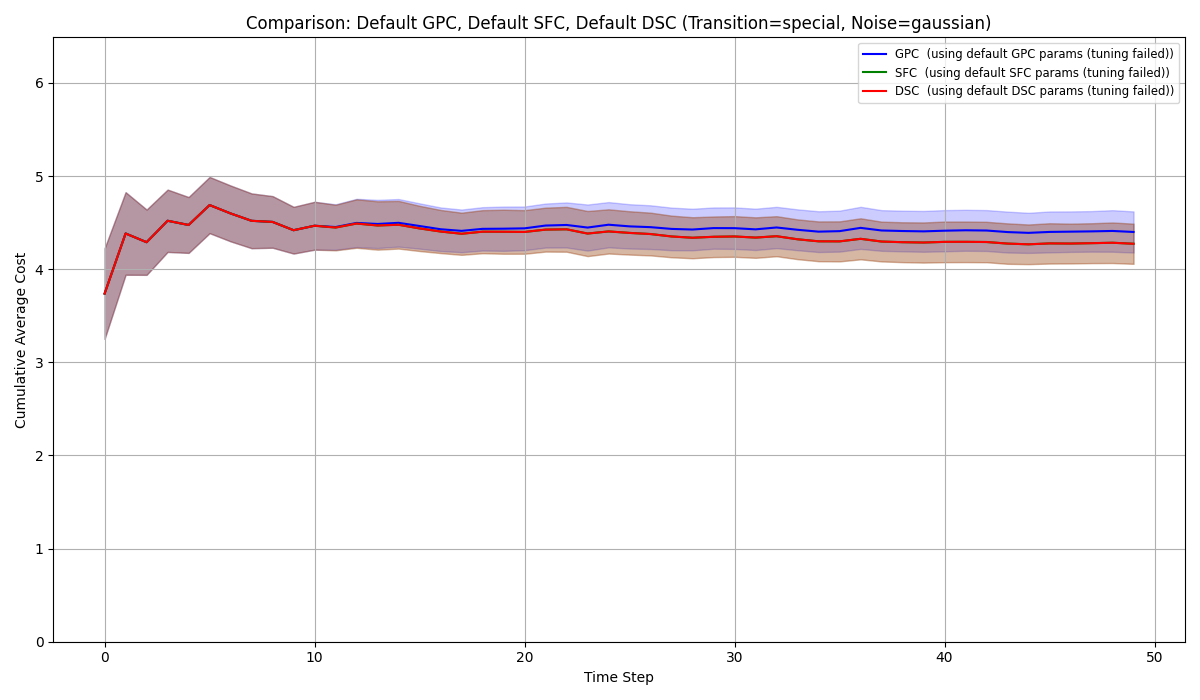
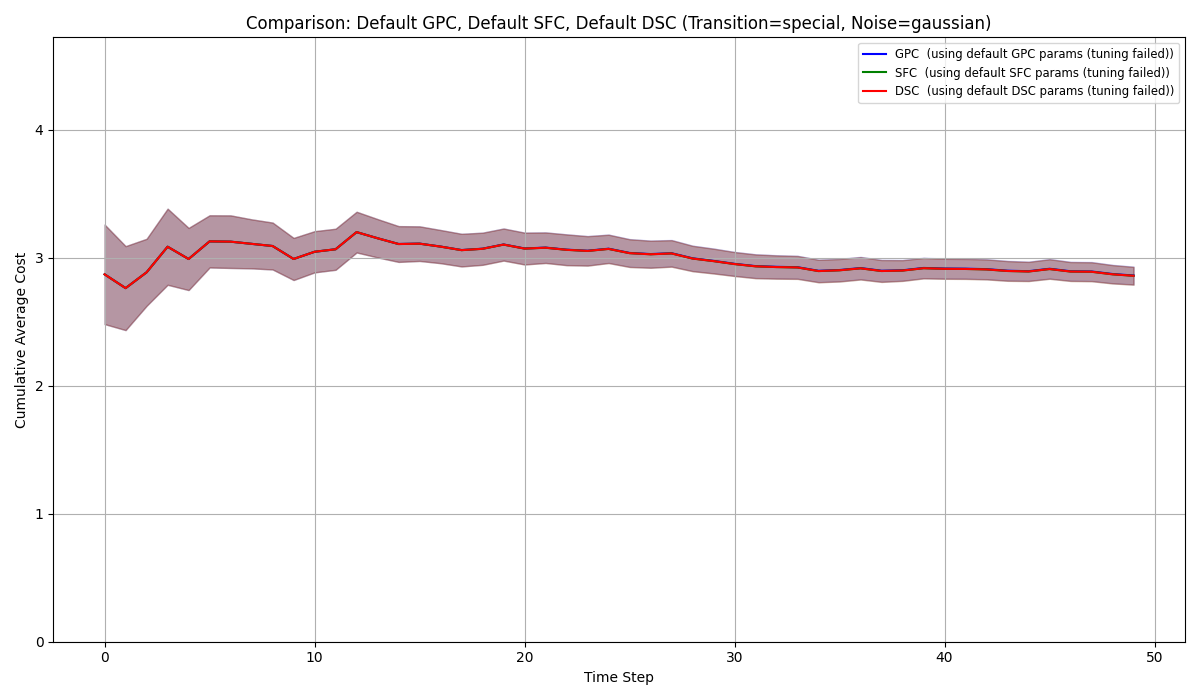
brax envs

Changed region(s): [[0.0925, 0.24, 0.9558, 0.48], [0.0308, 0.36, 0.0617, 0.39]]

diff --git a/deluca/colabs/plots/brax/inverted_pendulum/rollouts/rollout_gpc_brax_trial_0.html b/deluca/colabs/plots/brax/inverted_pendulum/rollouts/rollout_gpc_brax_trial_0.html
@@ -34,7 +34,7 @@
   <script src="https://unpkg.com/pako@2.1.0/dist/pako.min.js"></script>
 
   <script type="application/javascript">
[2 lines of base64/hex data omitted]
   // decode base64 (convert ascii to binary)
   system = atob(system);
   // convert binary string to character-number array

diff --git a/deluca/colabs/control_algs.py b/deluca/colabs/control_algs.py
@@ -59,11 +59,11 @@ T = 50     # Time horizon for simulations
 LR_DECAY = True # Whether to apply learning rate decay
 
 # Controller Structure Parameters
-GPC_M = 10
-SFC_M_HIST = 30
-SFC_H_FILT = 10
-DSC_M_HIST = 30 # Often same as SFC, but kept separate for flexibility
-DSC_H_FILT = 10 # Often same as SFC
+GPC_M = 5
+SFC_M_HIST = 10
+SFC_H_FILT = 5
+DSC_M_HIST = 10 # Often same as SFC, but kept separate for flexibility
+DSC_H_FILT = 5 # Often same as SFC
 
 # Hyperparameter Ranges for Tuning (Grid Search)
 INIT_SCALES_TO_TEST = []
@@ -327,10 +327,20 @@ def generate_trial_params(key, d, n, p):
     B = jax.random.normal(key_B, (d, n))
     C = jax.random.normal(key_C, (p, d))
     
-    M_Q_gen = jax.random.normal(key_Q_M, (p, p))
-    Q = M_Q_gen.T @ M_Q_gen
-    M_R_gen = jax.random.normal(key_R_M, (n, n))
-    R = M_R_gen.T @ M_R_gen
+    if SYSTEM_TYPE == "brax" and BRAX_ENV_NAME == "inverted_pendulum":
+        # For inverted_pendulum, the state is [cart_pos, pole_angle, cart_vel, pole_ang_vel].
+        # We want to keep the pole upright (angle=0) and cart at origin (pos=0).
+        # We penalize pole angle deviation most, then cart position, then velocities.
+        Q = jnp.diag(jnp.array([1.0, 10.0, 0.1, 0.1]))
+        # We also penalize the control effort.
+        R = jnp.diag(jnp.array([0.01]))
+    else:
+        # For other systems like LDS, or as a fallback for unhandled brax envs, use random matrices.
+        # Note: A random cost matrix is unlikely to be meaningful for a specific brax environment.
+        M_Q_gen = jax.random.normal(key_Q_M, (p, p))
+        Q = M_Q_gen.T @ M_Q_gen
+        M_R_gen = jax.random.normal(key_R_M, (n, n))
+        R = M_R_gen.T @ M_R_gen
     
     x0 = jnp.zeros((d,1)) 
     if SYSTEM_TYPE == "brax":
